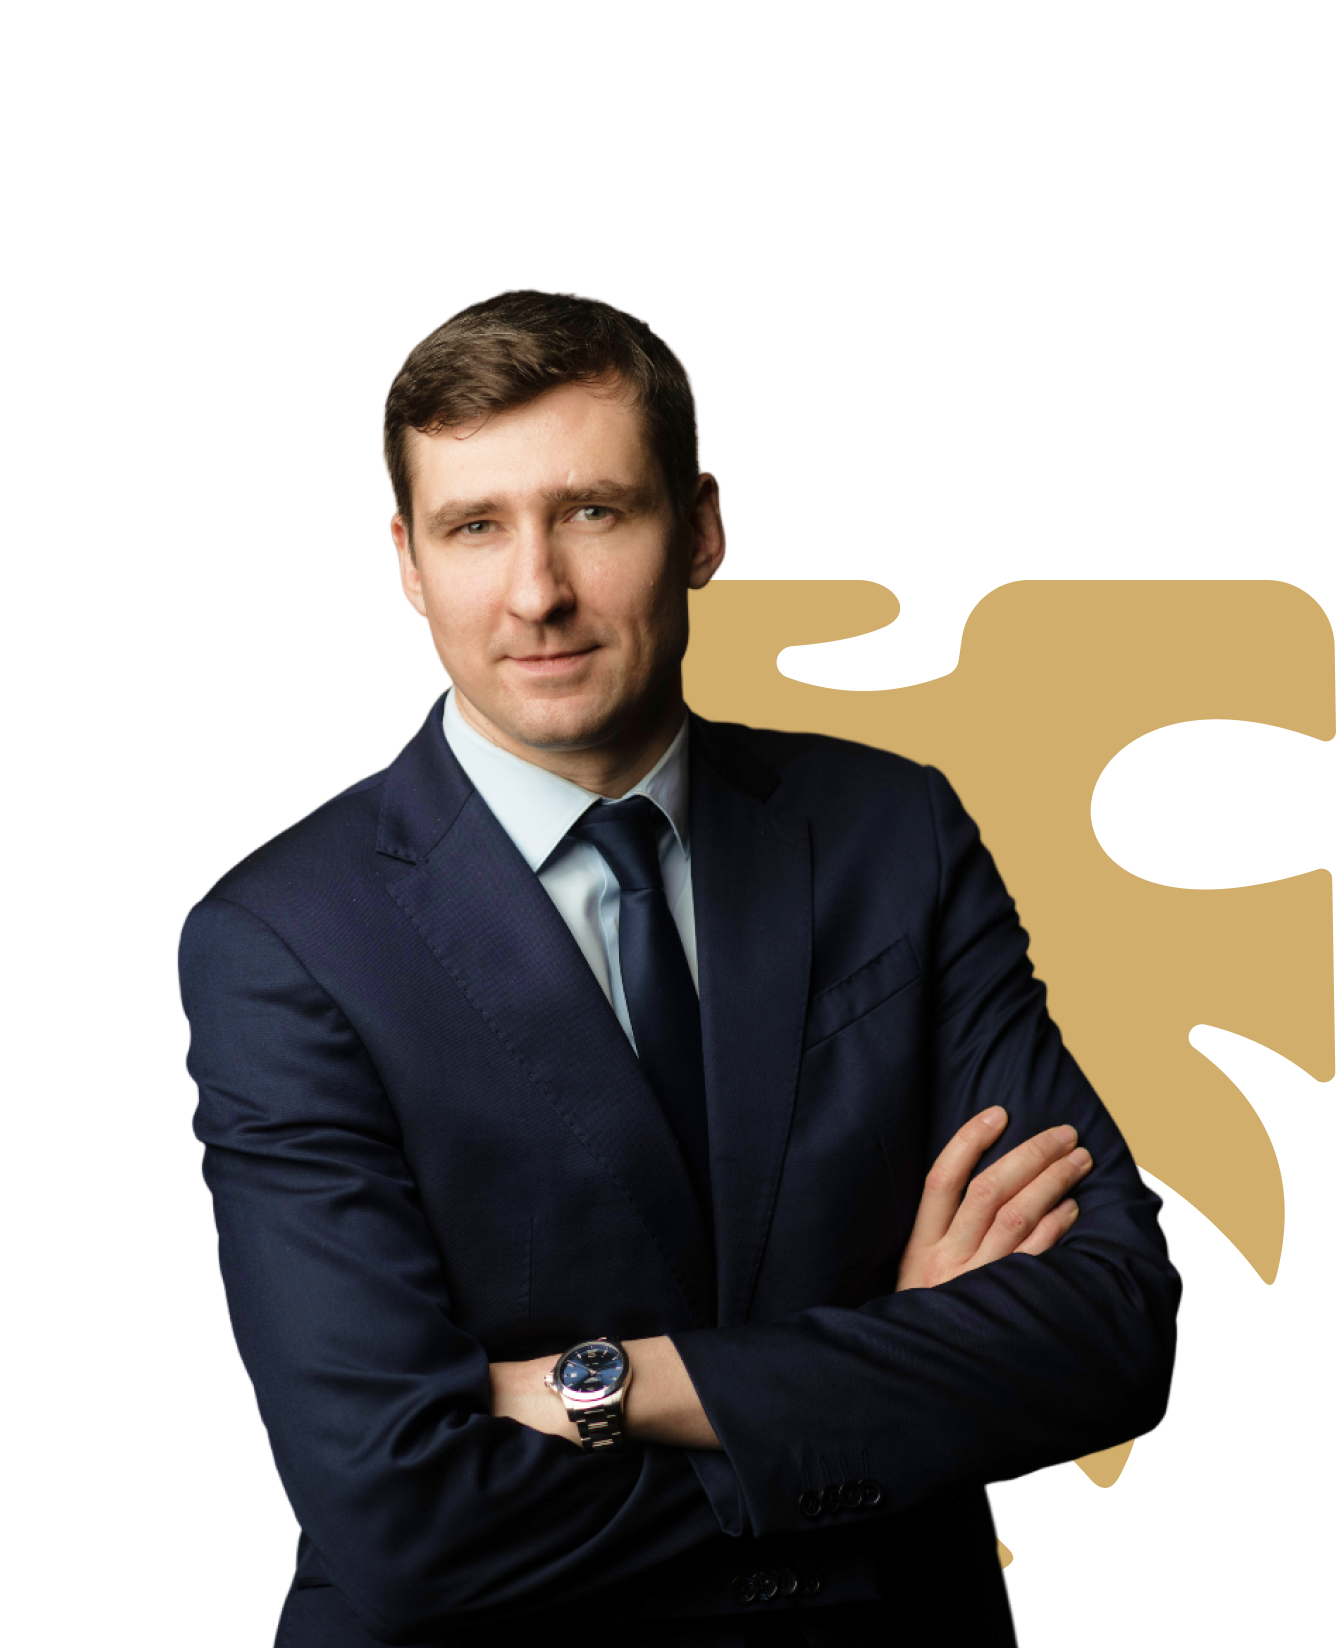
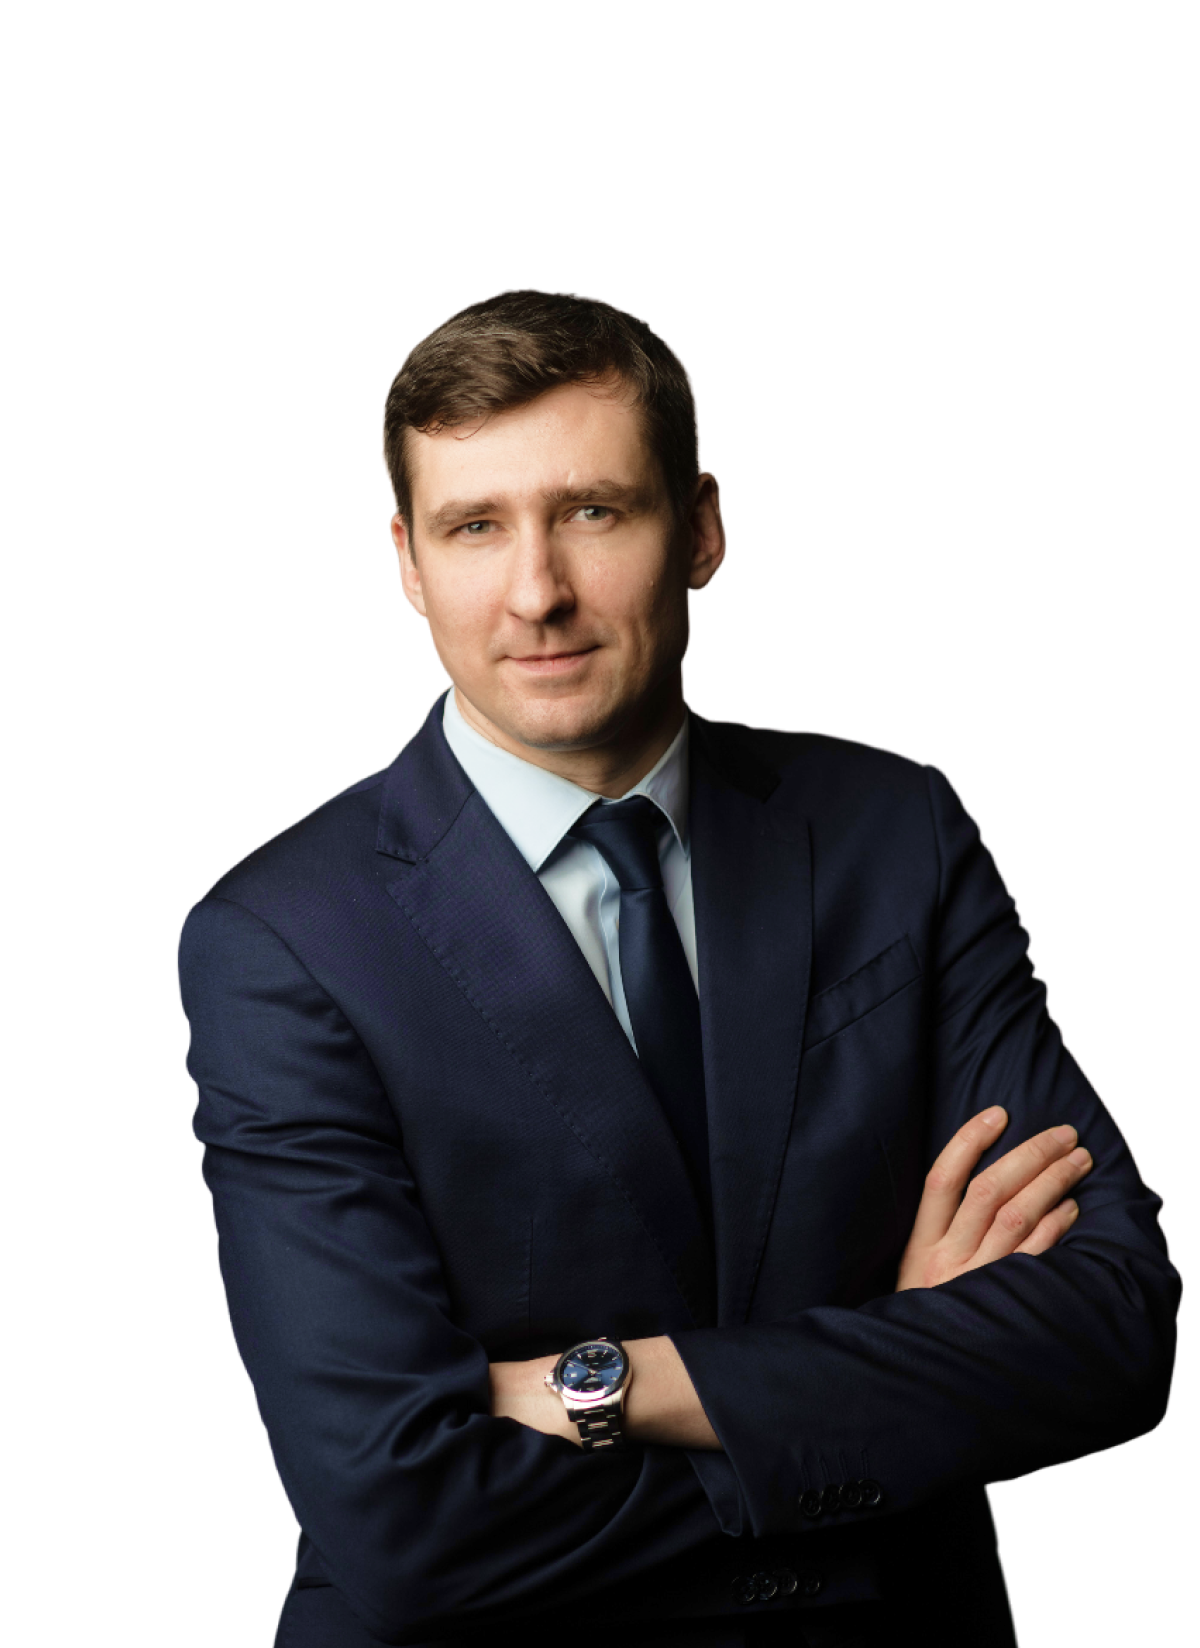
deploy 13.01

diff --git a/index.html b/index.html
@@ -46,7 +46,7 @@
                 <!-- <button class="dt-nav__btn dt__btn_transparent">
                     Банкротство физ. лиц
                 </button> -->
-                <a href="whatsapp://send?phone=+79096298319/" target="_blank" class="navbar__icon" style="margin-left: 70px;">
+                <a href="whatsapp://send?phone=+79096298319" target="_blank" class="navbar__icon" style="margin-left: 70px;">
                     <img src="./images/whatsapp-icon.png" alt="WhatsApp">
                 </a>
                 <a href="viber://add?number=79264915667/" target="_blank" class="navbar__icon">
@@ -99,7 +99,7 @@
                     </li>
                     <li class="navbar__item icons-wrapper">
                         <!-- <div class="navbar__block flex navbar__icons-wrapper"> -->
-                            <a target="_blank" href="whatsapp://send?phone=+79096298319/" class="navbar__icon">
+                            <a target="_blank" href="whatsapp://send?phone=+79096298319" class="navbar__icon">
                                 <img src="./images/whatsapp-icon.png" alt="WhatsApp">
                             </a>
                             <a target="_blank" href="viber://add?number=79264915667/" class="navbar__icon">
@@ -162,7 +162,7 @@
                 
             </div>
             <div class="hero__bottom">
-                <button class="hero__btn">Заказать звонок</button>
+                <button class="hero__btn open-modal-btn">Заказать звонок</button>
                 <ul class="hero__list">
                     <li class="hero__item flex-column">
                        <img src="./images/search-icon.svg" alt="Search" class="hero__item-img">
@@ -702,7 +702,7 @@
                     <a href="tel:+79646352936" class="footer__text footer__text_primary footer__text_bold">
                         +7 (964) 635 29 36
                     </a>
-                    <a href="whatsapp://send?phone=+79096298319/" class="footer__text footer__text_primary footer__text_bold">
+                    <a href="whatsapp://send?phone=+79096298319" class="footer__text footer__text_primary footer__text_bold">
                         <img src="./images/whatsapp.png" alt="WhatsApp">
                     </a>
                     <a href="viber://add?number=79264915667/" class="footer__text footer__text_primary footer__text_bold">

diff --git a/style.css b/style.css
@@ -594,28 +594,29 @@ button {
 .hero__list {
     position: relative;
     z-index: 10;
-    display: -webkit-box;
+    /* display: -webkit-box;
     display: -ms-flexbox;
-    display: flex;
-    -webkit-box-orient: vertical;
+    display: flex; */
+    /* -webkit-box-orient: vertical;
     -webkit-box-direction: normal;
         -ms-flex-direction: column;
             flex-direction: column;
     -webkit-box-align: center;
-        -ms-flex-align: center;
-            align-items: center;
+        -ms-flex-align: center; */
+    display: grid;
+    grid-template-columns: min-content;
+    grid-template-rows: repeat(3, 1fr);
+    justify-content: center;
+    
     gap: 20px;
 }
 
 @media screen and (min-width: 1200px) {
     .hero__list {
-        -webkit-box-orient: horizontal;
-        -webkit-box-direction: normal;
-            -ms-flex-direction: row;
-                flex-direction: row;
-        -webkit-box-pack: center;
-            -ms-flex-pack: center;
-                justify-content: center;
+        max-width: 820px;
+        margin: 0 auto;
+        grid-template-columns: repeat(3, 1fr);
+        grid-template-rows: 1fr;
     }
 }
 
@@ -629,7 +630,6 @@ button {
     -webkit-box-pack: center;
         -ms-flex-pack: center;
             justify-content: center;
-    height: 129px;
     padding: 11px 56px 22px 56px;
     border-radius: 30px;
     background: rgba(13, 13, 17, 0.70);
@@ -1356,10 +1356,18 @@ button {
     overflow: hidden;
 }
 
+
+.about__person_2 {
+    background-image: url('./images/about-2-bg.png');
+    background-repeat: no-repeat;
+    background-position: right bottom;
+    background-size: 50%;
+}
+
 .about__person_2 img {
     position: relative;
     height: 100%;
-    right: -30%;
+    right: -15%;
     max-width: 70%;
 }
 
@@ -1374,6 +1382,9 @@ button {
     }
     .about__person_2 img {
         max-width: none;
+    }
+    .about__person_2 {
+        background-size: contain;
     }
 }
 
@@ -2212,6 +2223,7 @@ a.footer__text_underlined {
 .footer__socials {
     margin-block: 10px;
     gap: 15px;
+    align-items: center;
 }
 
 .footer__social {
@@ -2223,7 +2235,9 @@ a.footer__text_underlined {
 .footer__social:hover {
     opacity: 0.8;
 }
-
+.footer__social img {
+    width: 30px;
+}
 .footer__search {
     padding: 35px 10px;
     border-top: 2px solid #caa45a;
